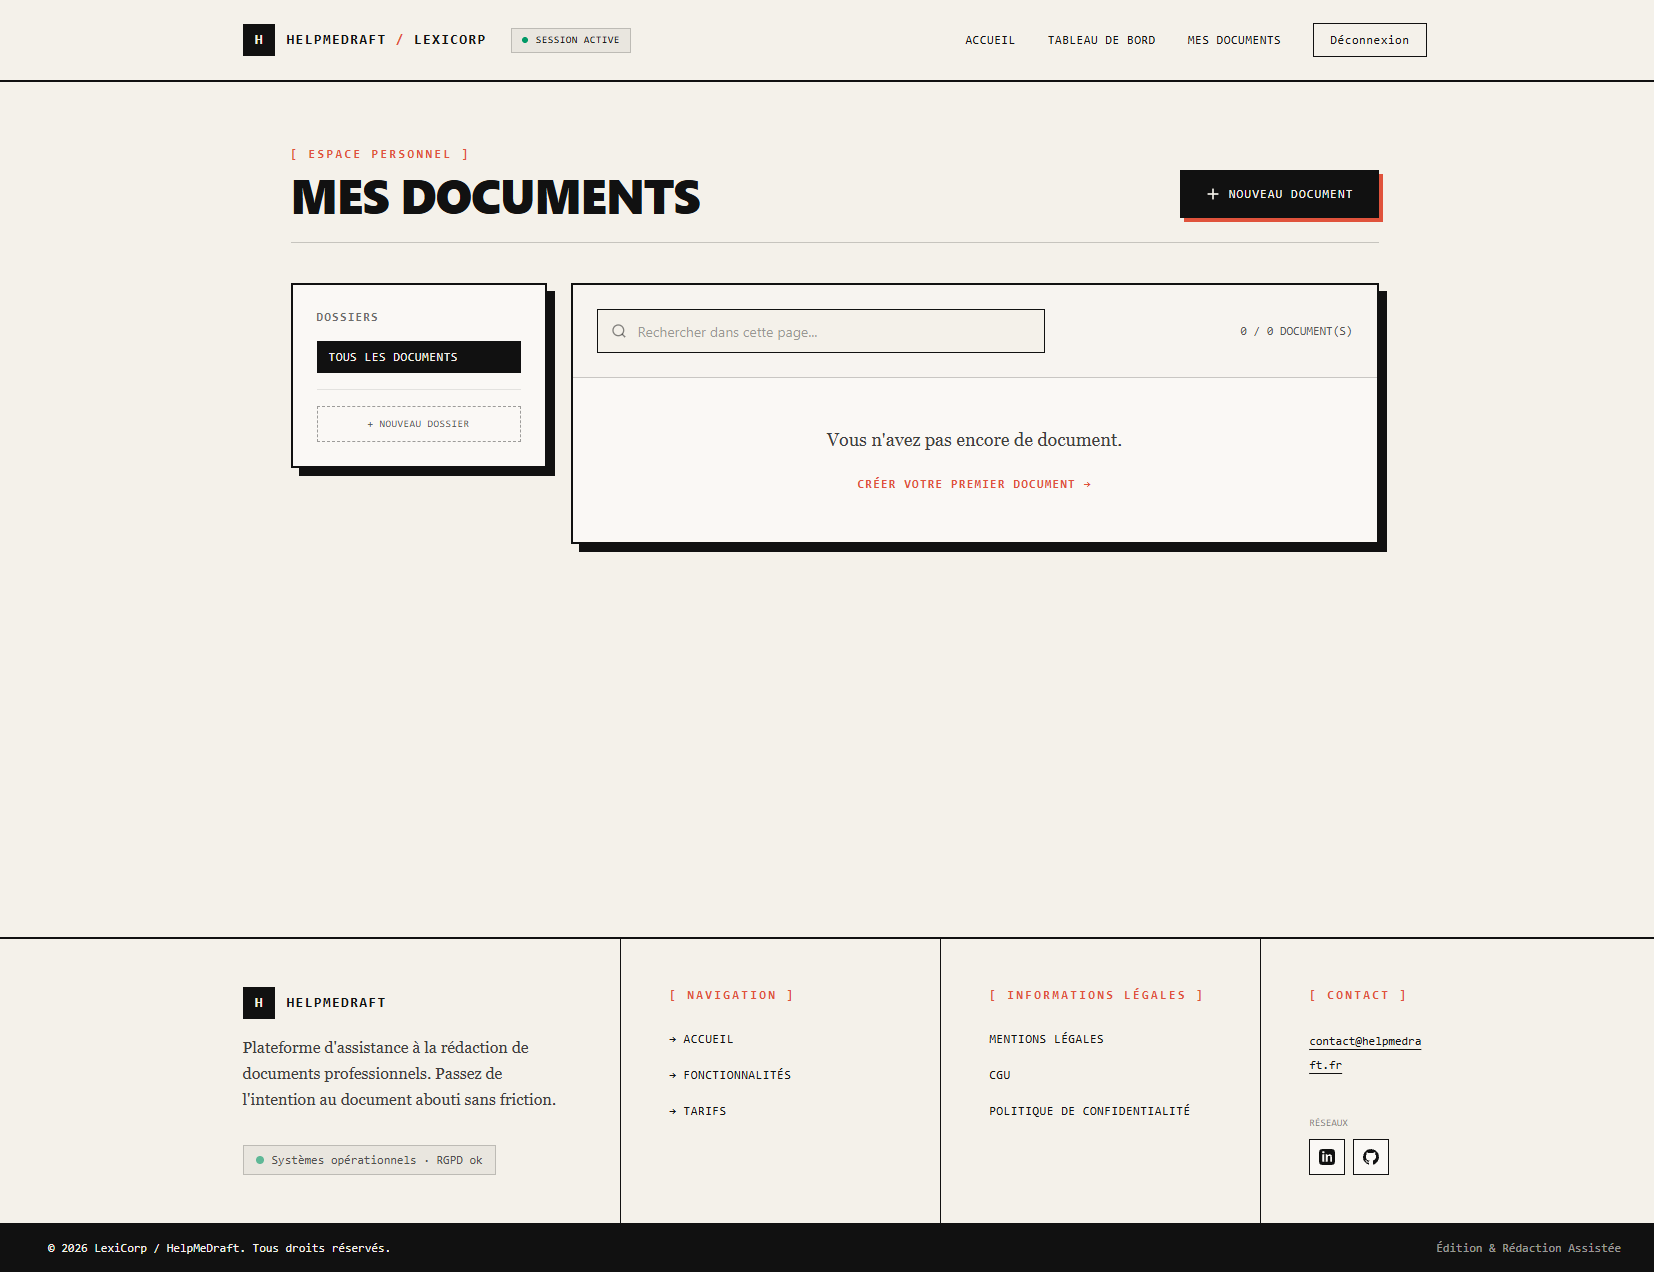
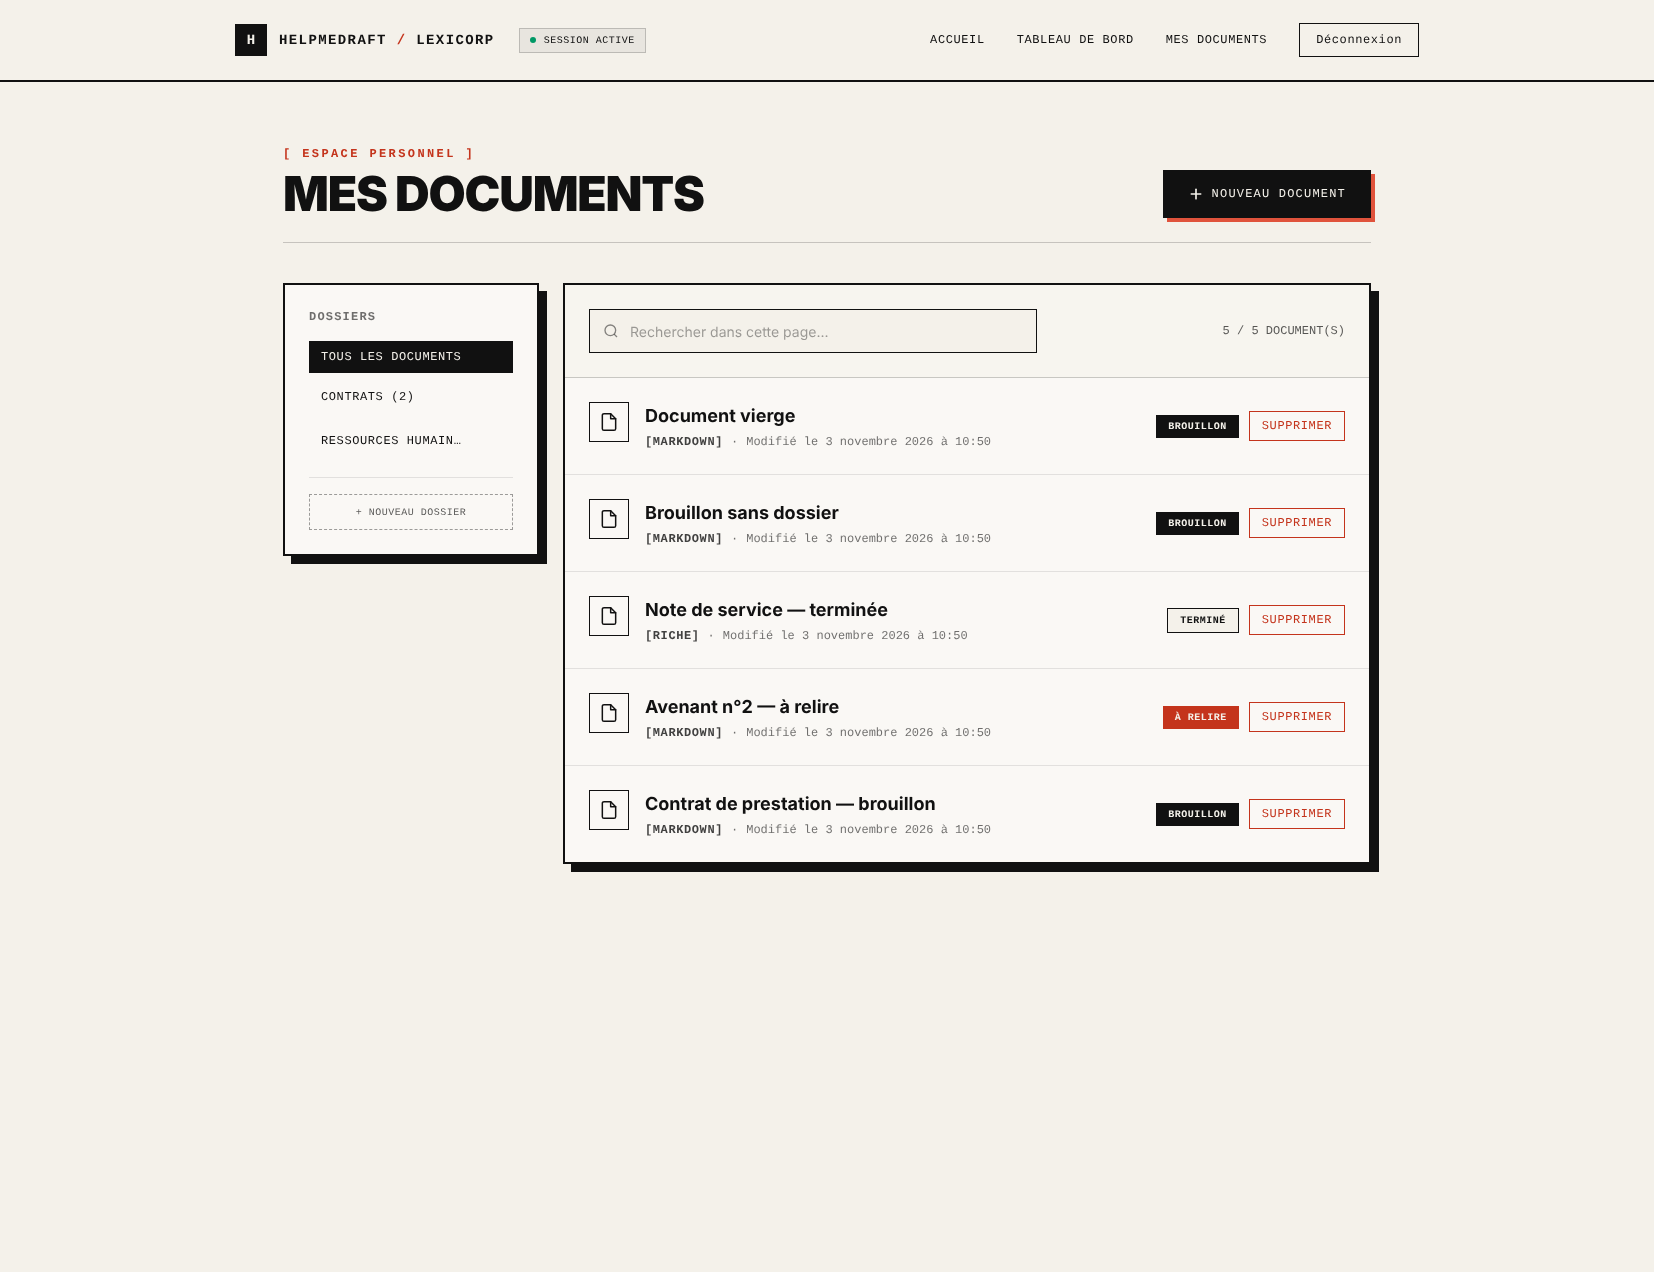
docs(captures): refaire la série C-01 à C-07 et produire C-08 à C-11
La série datait d'avant la refonte de l'éditeur : C-05 et C-07 montraient
une interface qui n'existe plus. Les quatre captures que l'index signalait
comme manquantes sont produites.

Nouvelles captures :

- C-08 — éditeur avec un document chargé (W-06, volet édition) ;
- C-09 — panneau de l'assistant IA ouvert sur ce document (W-07). Le REAC
  demande explicitement la capture et le code correspondant pour la
  fonctionnalité la plus représentative du projet ;
- C-10 — back-office (W-08) ;
- C-11 — réinitialisation de mot de passe, avec un jeton réellement valide
  créé en base pour la capture : sans lui, l'écran affiché est celui du
  jeton invalide.

Les huit premières sont refaites sur le même jeu de données, pour que les
écrans restent cohérents entre eux comme l'exige la convention : le jeu
d'essai du dépôt, chargé dans une base jetable. Les écrans connectés
montrent le compte de Camille Moreau — 5 documents, 15 appels IA sur 20 —
et le back-office celui d'Awa Diallo. Aucune donnée réelle.

Les dimensions de la première série sont conservées, 1654 px de large et
1272 px de haut hors pleine page : les largeurs en centimètres calées dans
docs/dossier/fill_trame.py en dépendent pour la hauteur rendue. C-03 et
C-05 restent en pleine page, et y gagnent en hauteur — leur contenu a
grandi.

Le script de production est versé à côté des images. Une série refaite à la
main ne se compare pas d'une fois sur l'autre, or elle doit l'être à chaque
[…]

diff --git a/docs/captures/INDEX.md b/docs/captures/INDEX.md
@@ -17,6 +17,10 @@ charte graphique appliquée). Elles alimentent le **§ 7.1** du dossier et l'ann
 | C-05 | Tableau de bord | `/dashboard` | `C-05-tableau-de-bord.png` | `DashboardView` | `requiresAuth` |
 | C-06 | Liste des documents | `/documents` | `C-06-liste-documents.png` | `DocumentListView` | `requiresAuth` |
 | C-07 | Nouveau document | `/documents/nouveau` | `C-07-nouveau-document.png` | `DocumentEditorView` | `requiresAuth` |
+| C-08 | Éditeur, document chargé | `/documents/:id` | `C-08-editeur-document.png` | `DocumentEditorView` + `MarkdownEditor` | `requiresAuth` |
+| C-09 | Assistant IA | `/documents/:id` | `C-09-assistant-ia.png` | `DocumentEditorView` (panneau IA) | `requiresAuth` |
+| C-10 | Back-office | `/admin` | `C-10-back-office.png` | `AdminView` | `requiresAdmin` |
+| C-11 | Réinitialisation | `/reset-password` | `C-11-reinitialisation.png` | `ResetPasswordView` | `guestOnly` |
 
 ## Correspondance maquette → réalisation
 
@@ -27,24 +31,48 @@ charte graphique appliquée). Elles alimentent le **§ 7.1** du dossier et l'ann
 | W-03 Connexion et récupération | C-02, C-04 |
 | W-04 Tableau de bord | C-05 |
 | W-05 Liste des documents | C-06 |
-| W-06 Éditeur de document | C-07 (création) — **édition manquante** |
-| W-07 Assistant IA | **manquante** |
-| W-08 Back-office | **manquante** |
+| W-06 Éditeur de document | C-07 (création), C-08 (édition) |
+| W-07 Assistant IA | C-09 |
+| W-08 Back-office | C-10 |
 
-## Captures restant à produire
+La série est complète : les quatre captures qui manquaient — C-08 à C-11 — sont
+produites. C-09 est la plus importante, le REAC demandant explicitement la
+capture **et le code correspondant** pour la fonctionnalité la plus
+représentative du projet.
 
-- `C-08-editeur-document.png` — `/documents/:id`, document existant chargé (W-06)
-- `C-09-assistant-ia.png` — modale IA ouverte sur `/documents/:id`, avec quota affiché (W-07)
-- `C-10-back-office.png` — `/admin` (W-08)
-- `C-11-reinitialisation.png` — `/reset-password` avec jeton valide
+### Réserve sur C-09
 
-C-09 est la plus importante : c'est la fonctionnalité la plus représentative du
-projet, et le REAC demande explicitement la capture **et le code correspondant**
-pour cette fonctionnalité.
+L'interface n'affiche **pas** le quota d'appels restants : le panneau montre
+l'action, la portée, les instructions et l'avertissement sur le contenu généré,
+rien de plus. La capture ne peut donc pas le montrer. Le quota n'est visible que
+dans le back-office, colonne « QUOTA IA / 24H » de C-10, et il est appliqué côté
+serveur. L'afficher dans le panneau serait une évolution de l'interface, pas une
+affaire de capture.
 
 ## Convention de capture
 
-- Chrome DevTools → largeur fixe **1440 px**, zoom 100 %
-- Données de démonstration cohérentes d'un écran à l'autre (même compte, mêmes documents)
-- Aucune donnée personnelle réelle : comptes fictifs uniquement (RGPD)
-- Format PNG, pas de recadrage après coup
+- Largeur fixe **1654 px**, zoom 100 % — la largeur des captures de la première
+  série, conservée pour que les largeurs en centimètres calées dans
+  `docs/dossier/fill_trame.py` gardent la même hauteur rendue dans le dossier.
+- Pleine page pour C-01, C-03 et C-05 ; hauteur d'écran (1272 px) pour les
+  autres, comme la série d'origine.
+- Données de démonstration cohérentes d'un écran à l'autre : le **jeu d'essai du
+  dépôt** (`backend/database/jeu_essai.py`), chargé dans une base jetable. Les
+  écrans connectés montrent le compte de Camille Moreau (5 documents, 15 appels
+  IA sur 20), le back-office celui d'Awa Diallo.
+- Aucune donnée personnelle réelle : comptes fictifs uniquement (RGPD).
+- Format PNG, pas de recadrage après coup.
+
+## Reproduction
+
+Les captures sont produites par un script Playwright contre la pile lancée en
+local, et non à la main : une série refaite à la main ne se compare pas d'une
+fois sur l'autre, et c'est précisément ce qu'il a fallu faire après la refonte
+de l'éditeur. Deux points qui ont demandé correction, et qui valent pour toute
+reprise :
+
+- le document de C-08 et C-09 est choisi par son **titre** (« Note de service —
+  terminée ») et non « le premier de la liste » : le jeu d'essai contient à
+  dessein un « Document vierge » qui donnerait une capture d'éditeur vide ;
+- la souris est écartée avant chaque capture, faute de quoi le bouton survolé
+  par le clic précédent reste en surbrillance.
